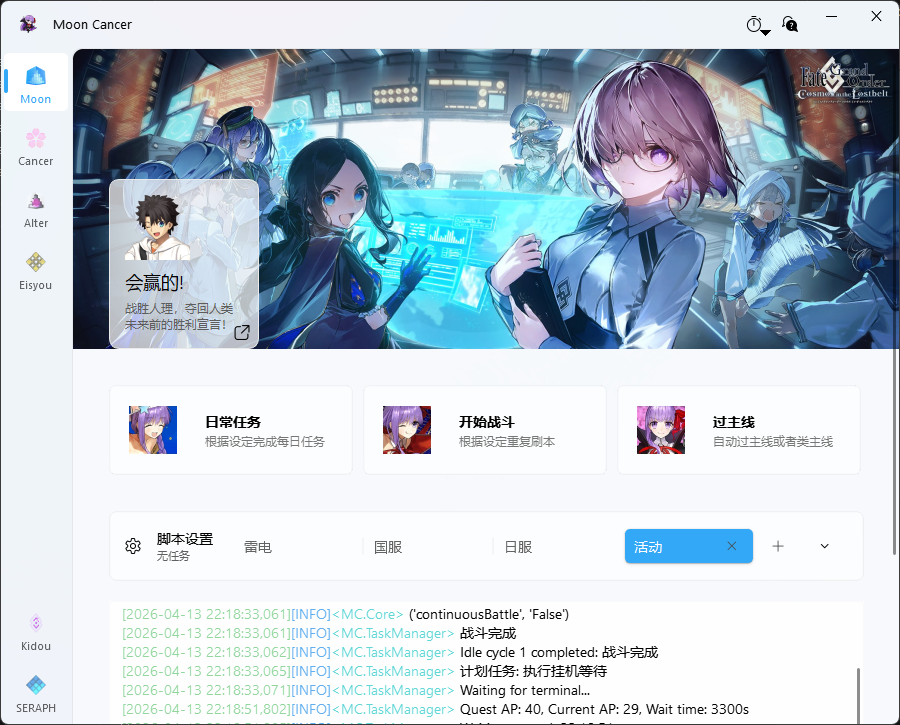
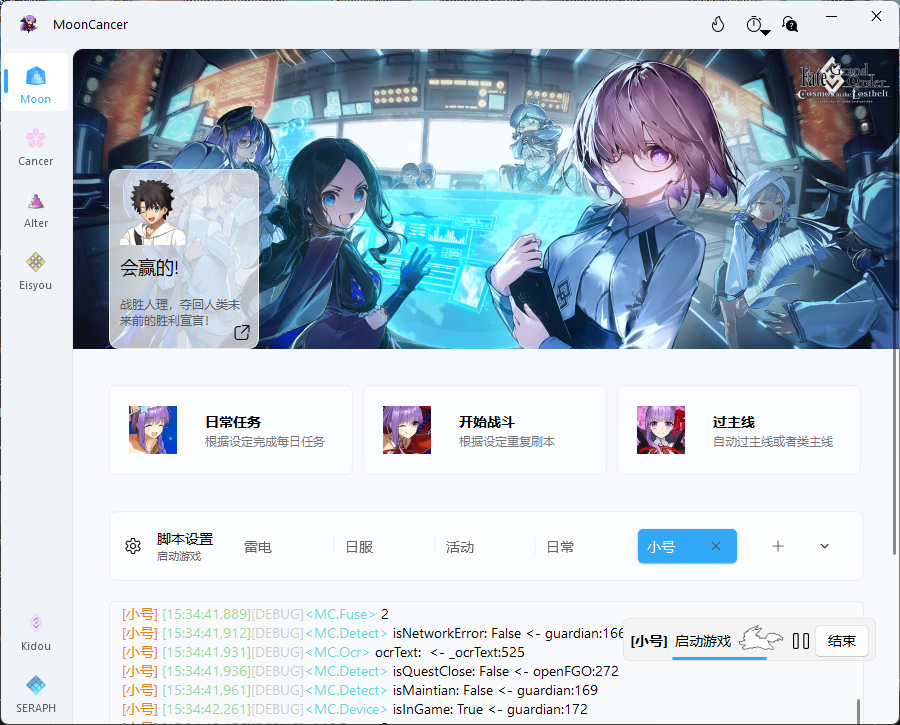
v2.7.0

diff --git a/src/content/posts/MoonCancer0.md b/src/content/posts/MoonCancer0.md
@@ -9,6 +9,17 @@ draft: false
 ---
 <font size=5>**配置不够？不能满羁绊？刷本太慢？<br>真拿你没办法，前辈 ❤，让 BB 亲来帮你吧**</font>
 
+## 功能特性
+
+- **自动战斗**：编队 → 选助战 → 指令卡/宝具循环 → 结算 → 连续作战，支持周回、主线、自由本、首通、日常任务（白纸化地球 / 冠位戴冠战）
+- **多模拟器支持**：专门适配MuMu模拟器、雷电模拟器，其他模拟器任然可用
+- **多开支持**：多个配置方案可同时运行任务，设备、调度、日志按配置隔离；同一模拟器/进程不会被重复驱动，多个同名进程时弹窗选择
+- **图像识别**：OpenCV 模板匹配 + RapidOCR 文字识别，推理引擎可选 onnxruntime / openvino
+- **战斗辅组**：基于 pymem 特征码扫描，支持修改攻击/生命/NP、快速强化、清空敌方血条
+- **任务调度**：任务完成后可计划关机/休眠，多开时延迟到最后一个任务结束，支持挂机循环（按 AP 自动等待）
+- **守护机制**：断线重连、游戏崩溃自动重启、维护检测、连续失败熔断（自动保存现场截图）
+- **其他**：多配置方案、每日免费抽卡、剧情 TTS 朗读、开机自启、系统托盘、中/繁/英/日多语言、自动检查更新
+
 ## 功能简介
 
 - [`日常任务`](../mooncancer1#日常任务)：打开模拟器，打开游戏，抽每日友情池，打白纸化或戴冠战结束
@@ -22,9 +33,9 @@ draft: false
 - `Kidou`：打开模拟，再打开游戏进入到主界面
 
 **只支持国服和日服安卓模拟器使用（能在模拟器上登录即可用，包括渠道服、IOS也可也在模拟器上登录）**
-
-**有些问题懂的都懂不要到处传播，打枪滴不要，也不要上纲上线，我只是为了轻松的玩 FGO，怕别用，用别怕。**
-
+:::warning
+有些问题懂的都懂不要到处传播，打枪滴不要，请勿上纲上线。 仅供学习交流使用，请自行承担游戏账号相关风险。
+:::
 ---
 :::warning
 [&lt;&lt;哔哩哔哩游戏平台用户协议&gt;&gt;](https://yhxy.biligame.com/)第 11 条第 2 款规定
@@ -36,7 +47,12 @@ draft: false
 ![main.png](../../assets/images/mooncaner/main.png)
 ![maindark.png](../../assets/images/mooncaner/maindark.png)
 ## 下载安装
-群文件下载`Updater.exe`，新建一个文件夹，将文件放到里面，例如`MoonCaner/Updater.exe`，然后运行`Updater.exe`，就会自动下载安装，同时也是更新程序
+
+[GitHub Release](https://github.com/SwakinX/MoonCancerLauncher/releases/tag/Download)
+
+[国内下载](https://gitee.com/swakinx/mcassets/releases/download/Download/Updater.exe)
+
+下载`Updater.exe`，新建一个文件夹，将文件放到里面，例如`MoonCaner/Updater.exe`，然后运行`Updater.exe`，就会自动下载安装，同时也是更新程序
 ## 更新方式
 - 自动检测更新，在设置中开启自动检测更新
 - 手动检测更新，在设置->关于->检查更新
@@ -51,18 +67,18 @@ draft: false
 [Eisyou界面说明](../mooncancer4)<br>
 ### 标题栏说明
 - 右上角的帮助图标可以打开`帮助`弹窗，有问题随时可以查看点击跳转对应的说明书，如果觉得有帮助可以赞助我一点。<br>
-- 在启动任意任务后会出现`暂停`按钮，可以暂停执行中的任务。<br>
+- 右上角左边`强制结束`按钮，可以一键结束所有配置的任务并重置设备连接，脚本卡住的时候用它。<br>
 ![planmeun](../../assets/images/mooncaner/planmeun.png)
-- 任意时候都可以点击计划按钮选择计划或取消计划，关机会在任务结束后关机，休眠同理；挂机会在任务结束后，挂机等待体力够进入当前关卡，建议使用时开启`清理剩余体力`选项<br>
+- 任意时候都可以点击计划按钮选择计划或取消计划，关机会在所有任务结束后才关机（多开时等最后一个任务结束），休眠同理；挂机会在任务结束后，挂机等待体力够进入当前关卡，建议使用时开启`清理剩余体力`选项<br>
 
 ### 模拟器设置
-- 使用其他模拟器理论上可行，但推荐MuMu或雷电，这两个适配了高速连接，本身玩fgo也比较稳定，MuMu现在官网已经只能下载到新版了，想用旧版这里有历史版本[MuMu模拟器历史版本](https://www.cnblogs.com/wutou/p/18165628)
+- 使用其他模拟器理论上可行，但推荐MuMu或雷电，这两个适配了高速连接，本身玩fgo也比较稳定，MuMu现在官网已经只能下载到新版了，想用旧版这里有历史版本[MuMu模拟器历史版本](https://www.cnblogs.com/wutou/p/18165628)，**MuMu不要用安卓15版本的，修改可能无法生效**
 - 模拟器用16：9的分辨率，1280x720起步，分辨率过低可能无法识别，最重要的mumu模拟器`关闭`后台保活,一定要`关闭`，记住是`关闭`，如下图所示。其他模拟器可能也有一些导致无法正常截图的设置
 ![mooncanermumusetting](../../assets/images/mooncaner/mumusetting.png)
 
 ### 连接设置
 :::important
-请在设置之前打开要使用的模拟器，多开的情况要保证目标模拟器先启动，不然修改数值会失败。
+请在设置之前打开要使用的模拟器；修改数值时如果检测到多个同名模拟器进程，会弹窗让你选择要附加的进程，已经被其他配置占用的进程会标记并禁选。
 
 按下图标记顺序完成设置即可连接设备，如果是mumu模拟器B服，只需要进行第2步搜索设备选择确认即可。
 
@@ -79,6 +95,7 @@ draft: false
 - `虚拟机进程名称`是读取内存的目标，是修改的基础，**没填或没填对脚本没法正常工作**，默认就是mumu模拟器的
 - `推理引擎`设置OCR推理引擎，onnxruntime内存占用少，openvino速度快占用内存多，如果没有问题建议朗读时追求速度再切换openvino
 - `连接等待时间`如果自动启动模拟器时，模拟器启动时间过长导致没连上，可以增加等待时间
+- `开机自启`可以选择配置和日常任务，在电脑系统启动后自动执行日常任务
 - 剩下的设置没啥好讲的了，自己看着选
 :::tip
 这里简单说一下怎么找到自己模拟器的虚拟机名称，打开模拟器，再打开任务管理，在进程里找到占用最高的模拟器相关进程(这里以mumu为例)，右键打开文件所在的位置，就可以直到程序，复制名称就行了，要包括.exe。
@@ -99,19 +116,6 @@ draft: false
 ```
 
 - 如果同时使用BBChannel，反复出现上诉问题，将`MoonCancer\assets\static`文件夹复制到BBchannel里面的`dist\BBchannel64\airtest\core\android\static`覆盖，这个方式同样能解决BBChannel的连接问题
-- 遇到错误请在群里反馈，尽量在出现问题的地方截屏或录屏，最好用模拟器自带的方式截屏和录屏
-
-## 碎碎念
-有这个想法已经几年了终于是实现了，第一次写这么正式的项目，只能说有编程基础，摸着石头过河，写的很烂，但由于某些原因，不能公开分享。
-开始这个项目快一年了，也更新到了2.0全新版本，还搭建博客，过的挺充实的
-
----
-## 相关项目
-使用和参考相关项目：
-- [Blue Archive Auto Script碧蓝航线脚本](https://github.com/pur1fying/blue_archive_auto_script)
-- [FGO-py脚本](https://github.com/hgjazhgj/FGO-py)
-- [Airtest自动化测试库](https://github.com/AirtestProject/Airtest)
-- [RapidOCR文字识别](https://github.com/RapidAI/RapidOCR)
-- [PyQt-Fluent-Widgets图形界面组件库](https://github.com/zhiyiYo/PyQt-Fluent-Widgets)
-- [Pymem内存读取修改](https://github.com/srounet/Pymem)
+## 问题反馈
+- 遇到错误请在这里[反馈](https://github.com/SwakinX/MoonCancerLauncher/issues)，尽量在出现问题的地方截屏或录屏，并给出log以及场景描述，出问题的时候会自己截图有的话也带上，最好用模拟器自带的方式截屏和录屏
 

diff --git a/src/content/posts/MoonCancer1.md b/src/content/posts/MoonCancer1.md
@@ -56,14 +56,14 @@ draft: false
 - 回忆关卡部分关卡在边缘位置需要手动点一下进入关卡列表，有些关卡通关后会回到地图也需要手动点一下回到关卡列表，因为是主线关卡，所以也会遇到强制马修助战会卡住，某些自动编队的情况也可能打乱现有编队，请注意
 
 ## 脚本设置
-设置主页运行任务的具体参数，可展开折叠，支持添加移除配置，右键可以重命名配置，支持多配置切换，切换后会结束当前任务并断开连接
+设置主页运行任务的具体参数，可展开折叠，支持添加移除配置，右键可以重命名配置，支持多配置切换。每个配置都可以独立运行任务（多开互不干扰），切换标签只会切换界面显示的配置，不会结束正在运行的任务
 ![settings2](../../assets/images/mooncaner/settings2.png)
 - **战斗次数** 如果拖动不精准可以键盘左右键微调，日常任务默认打三次，屯着多次的要一次打完可以直接用战斗设置次数打，过剧情除非开启清理剩余体力，不然会不停过，跟这里的战斗次数无关
 - **清理剩余体力** 开启后，所有战斗都会在战斗次数耗尽后，战斗到体力不足
-- **使用茶壶** 每次编队界面检查茶壶使用状态
+- **使用茶壶** 在编队界面和继续战斗时检查茶壶使用状态（包括风暴罐）
 - **苹果和助战** 选择补充体力的苹果类型，选择助战礼装，支持冠位助战，具体请阅读[礼装规则](../mooncancer1#礼装规则)
 - **活动点限制** 设置活动点限制，超过就停止，不多刷浪费，不限制时设为0，没有活动点的情况不触发
-- **抽每日友情池** 开启会在日常任务打白纸化之前先抽取每日免费友情池
+- **抽每日免费** 开启会在日常任务打白纸化之前先抽取每日免费（友情池和剧情免费召唤）
 - **日常任务** 选择每日刷的本，可选择白纸化地球本和冠位戴冠战，或者都不打，按需选取，但要注意是否已经开放。冠位战的情况下要把冠位认定战打了，因为默认打最后一个本，不过没打的话会自动打了，要注意一下
 
 ### 礼装规则
@@ -71,7 +71,9 @@ draft: false
 - 当包含活动礼装时，会默认选取第一个助战，也就是不挑助战，想要选活动礼装设置好筛选
 - 当检测到冠位助战时，会选取满足候选列表其中两项的助战
 :::tip
-不想频繁修改配置可以创建多个常用配置，例如日常一个、活动一个，新建的配置会复制当前的配置，模拟器和区服没有改变只需要更改脚本设置即可
+不想频繁修改配置可以创建多个常用配置，例如日常一个、活动一个，新建的配置会复制当前的配置，模拟器和区服没有改变只需要更改脚本设置即可<br>
+多个配置的任务可以同时运行（多开），比如一个配置挂日常、另一个配置刷活动；注意同一个模拟器同时只能被一个配置占用，多开请使用多个模拟器实例
 :::
 ## 日志窗口
-任务结束后会输出战斗结果(用时、战斗数、掉落数)，以及结束的原因，出现问题时如果要反馈，请将完整的当前游戏画面和log截图反馈
+任务结束后会输出战斗结果(用时、战斗数、掉落数)，以及结束的原因，出现问题时如果要反馈，请将完整的当前游戏画面和log截图反馈<br>
+多开时主页日志会以不同颜色的`[配置名]`前缀区分来源，logs文件夹下每个配置还有独立的日志文件，方便分开排查

diff --git a/src/content/posts/MoonCancer4.md b/src/content/posts/MoonCancer4.md
@@ -8,19 +8,19 @@ category: MoonCancer
 draft: false
 ---
 :::note
-*这个功能是我突发奇想做的，实际体验只能说一般吧，角色有限，情感也不丰富，但听响足够了。有些桥段和组合反而有点搞笑。基于文字识别和edge tts都是免费白嫖的，免费方案里已经算是最好的了，像为每个角色训练模型，那工作量也太大了，是我现阶段可及的。*
+*只支持中文，这个功能是我突发奇想做的，实际体验只能说一般吧，角色有限，情感也不丰富，但听响足够了。有些桥段和组合反而有点搞笑。基于文字识别和edge tts都是免费白嫖的，免费方案里已经算是最好的了。*
 :::
-## 表格说明
+## 语言配置
 `名称`<br>
 识别到名称会自动添加到表格中，并随机设定一个声音<br>
 `声音`<br>
 从列表中选择一中声音，设置为对应名称的角色语音，有些组合非常生草，朗读中也能修改，在下次说话生效<br>
-
-## 功能说明
 `速率`<br>
 调整说话的速度，朗读中也能修改<br>
 `音量`<br>
 调整说话的音量，朗读中也能修改<br>
+
+## 功能说明
 `删除`<br>
 列表中删除一个或多个角色<br>
 `导出配置`<br>

diff --git a/src/content/posts/MoonCancer.md b/src/content/posts/MoonCancer.md
@@ -13,6 +13,15 @@ draft: false
 [Cancer界面说明](../mooncancer2)<br>
 [Alter界面说明](../mooncancer3)<br>
 [Eisyou界面说明](../mooncancer4)<br>
+## 2026年9月6日v2.7.0
+1.新增多开支持：不同配置可以同时运行任务互不干扰，主页日志带彩色`[配置名]`前缀，每个配置在logs下还有独立的日志文件夹<br>
+2.标题栏新增`强制结束`按钮，一键结束所有配置的任务并重置连接；暂停按钮移到主页右下角的任务条上，只控制自己配置的任务<br>
+3.切换配置不再结束正在运行的任务，只会切换界面显示的配置<br>
+4.修改数值时如果检测到多个同名模拟器进程会弹窗选择，已被其他配置占用的模拟器和进程不可重复选中<br>
+5.下拉框选项支持多语言翻译，切换语言不会影响已保存的配置<br>
+6.重构模拟器管理模块，设备扫描改为后台执行，扫描期间不再卡住界面<br>
+7.优化部分场景脚本逻辑
+
 ## 2026年8月15日v2.6.6
 1.修复资源和程序同时更新时要点两次更新的问题<br>
 2.修复日常根据风暴罐数量设置战斗次数不生效的问题<br>

diff --git a/src/content/posts/MoonCancer2.md b/src/content/posts/MoonCancer2.md
@@ -7,7 +7,7 @@ tags: [fgo, 脚本, MoonCancer]
 category: MoonCancer
 draft: false
 ---
-## 表格说明
+## 地址记录
 
 *表格是为了记录下查找的地址为了方便二次修改，同时也可视化展示修改了哪些位置，每次进入战斗前或者战斗结束记得清除记录，每场战斗地址不一定相同不能复用，使用旧地址修改可能导致游戏异常或闪退* <br>
 `位置`<br>
